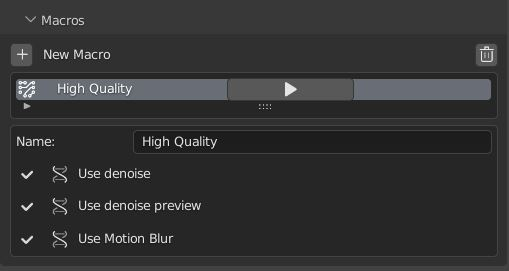
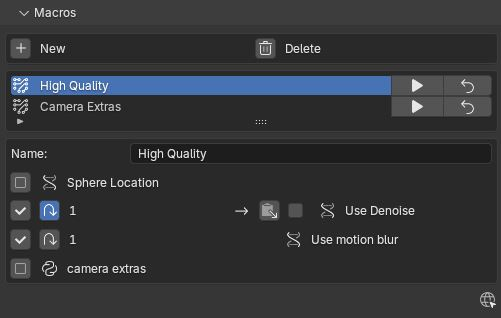
2.0.5 updates prt1

diff --git a/source/index.rst b/source/index.rst
@@ -4,7 +4,7 @@ Shot Manager
 
 https://twitter.com/OTrealms
 
-:Version: 2.0.0
+:Version: 2.0.5
 
 
 Getting Started
@@ -12,15 +12,14 @@ Getting Started
 
 Shot Manager is an add-on for Blender. Created as a tool by myself Pablo Tochez A. [contact@pablotochez.com] in order to assist in the organisation of complex files containing multiple shots, view layers and cameras. I am an artist with some coding knowledge for making time saving tools and digital artworks.
 
-Shot Manager should be installed like any .zip add-on [Blender 2.8 Install Add-ons 00:38-https://youtu.be/14G_YIVdBd0?t=38]. 
+Shot Manager should be installed like any .zip add-on [Blender 2-3 Install Add-ons 00:38-https://youtu.be/14G_YIVdBd0?t=38, blender 4.2 user Add-ons https://www.youtube.com/watch?v=_dJxMgMKYgU&ab_channel=GlenMadden]. 
 
  Make sure to remove any previously installed versions first and restart Blender.
 
 You will not lose shot data uninstalling the add-on/
 This documentation encompasses both the Lite and pro versions available on Blender Market.
 
-
- Version 2.0 and above do not support versions of Blender less than 4.0.
+ SM version 2.0 and above do not support versions of Blender less than 4.0.
 
 Updating from v0.7 or older Shot Manager project
 ------------------------------------------------
@@ -306,7 +305,7 @@ Shot Rules
 
 .. image:: ShotRules.JPG 
 
-Here rules can be assigned, toggled and overridden (RNA, Python Variables) per shot. Rules should first be created in the Rule Book, see :ref:`UI: Rule Book`.
+Here rules can be assigned, toggled and overridden per shot. Rules should first be created in the Rule Book, see :ref:`UI: Rule Book`.
 
 **List Drop Down**
 * **Search**, Filter Rules by text input.
@@ -375,7 +374,7 @@ UI: Rule Book
 .. image:: RuleBook.JPG 
 
 Shot rules are a powerful way to override data blocks and properties.
-Rules are defined in the Rule Book panel. Once created in the Rule Book, they can be assigned to shots. RNA Rules can be used as Macros. There are many types of rules which target various data types.
+Rules are defined in the Rule Book panel. Once created in the Rule Book, they can be assigned to shots. RNA and Python Rules can be used as Macros. There are many types of rules which target various data types.
 
 Rules and Variables are shared (global) across Scenes.
 
@@ -387,7 +386,8 @@ Swap Rules - Materials, Mesh Data, Cameras, Lights
 ----------------------------------------------
 .. image:: SwapRules.JPG
 
-Swap Rules follow the principle of; replace data A with data B, if a collection filter is defined, the affect will be restricted to that collection. Rules defined in the Rule Book can then be re-used by assigning them to the shots individually. If the following shot doesn't have a rule, the data block will be reset to its original/default state. Caution: large scenes with many objects may take longer to switch between shots.
+Swap Rules follow the principle of; replace data A with data B, if a collection filter is defined, the affect will be restricted to that collection. Rules defined in the Rule Book can then be re-used by assigning them to the shots individually. 
+If the following shot doesn't have a rule, the data block will be reset to its original/default state. Caution: large scenes with many objects may take longer to switch between shots.
  
  Material overrides will target the first material slot only.
 
@@ -442,7 +442,7 @@ Python Rules
 
 Python Rules contain python code to be executed every time an assigned Shot is activated. There is no need to import or define the following names:
 
-**'bpy', 'context','scene','data', 'Vector','rule'(assigned Rule) and 'shot'** are already provided in the name space. Please beware that very long code may slow down shot changes. Deep code might make Blender unstable. Python Rules are called after the majority of updates when activating a Shot. Python rules can be made revertible using variables as defaults values.
+**'bpy', 'context','scene','data', 'Vector','rule'(self reference assigned Rule) and 'shot'** are already provided in the name space. Please beware that very long code may slow down shot changes. Deep code might make Blender unstable. Python Rules are called after the majority of updates when activating a Shot. Python rules can be made revertible using variables as defaults values.
 
 * **Expression**, A single line of code.
 * **Text File**, Read python code from a text block.
@@ -479,7 +479,9 @@ Macros
 
 .. image:: Macros.JPG
 
-Macros in Shot Manager are a list of RNA Rules to be executed manually on click. These are useful when working with multiple settings without needing to assign RNA Rules to shots. For example, enabling/disabling camera overlays or a rig bind pose position. Macros can be reverted by using default values.
+Macros in Shot Manager are a list of RNA or Python Rules to be executed manually on click. These are useful when working with multiple settings without needing to assign RNA Rules to shots. 
+For example, enabling/disabling camera overlays or a rig bind pose position. Macros can be made revertable by setting RNA default values. 
+For python rules, macro's and use variable overrides on execution and variable default values on revert.
 
 All RNA Rules in all Rule Books within the Blender file will appear under the Macro. Enabled Rules will activate the rules 'Override' value, disabled Rules will use the Rule's 'Default' value.
 
@@ -586,7 +588,8 @@ Shot Sequence Editor
 
 The Shot Sequence Editor acts as an overlay only unless the Shot Edit tool is active.
 
-* **Left Mouse Click** on a shot strip to offset its timing or end handles to trim. Hold **SHIFT** to enable snapping to the nearest shot. 
+* **Left Mouse Click** on a shot strip to offset its timing or end handles to trim. Hold **CTRL** to enable snapping to the nearest shot. 
+Hold **SHIFT** and click to select additional shots. 
 
 * **Right Mouse Click** on a strip to bring up a context menu.
 
@@ -596,7 +599,10 @@ The Shot Sequence Editor acts as an overlay only unless the Shot Edit tool is ac
 
 * **Press K**, knife tool. Slice shots at mouse click into two. Hold click a drag to place slice.
 
+* **Press R**, Ripple tool. Slide or scale a strip forwards to ripple all shot following he modified shot's end frame. Slide or scale backwards to ripple all shots prior to the modified shot's start frame.
+
 * **Press J**, Join tool. Click and drag to merge a shot with it neighbour. A popup box with options will appear.
+
 * * **Delete Target**, Delete the target shot. Disable to keep the shot.
 
 * * **Assimilate Layers**, Add the target shot's View Layer states to the resulting combined shot.
@@ -1069,6 +1075,15 @@ The Output Generator Node is the essential input of a chain of generator nodes. 
 .. image:: JoiningOutputs.JPG
 
 It is possible to combine generated nodes if the Output Generator nodes have matching names. Sub-paths and EXR settings will only follow the first to be evaluated. Combine Outputs should be checked on both nodes and should have matching Multi-Layer EXR checkmark.
+
+**Output Pass Name Mapping**
+
+.. image:: PassNameRemap.JPG
+
+In the right panel, generated output pass names can be remapped for the given Output Generator. These will be respected in the filename and subfolder formating.
+
+* **Socket Name**, The render layer socket to override
+* **=**, Define a new name
 
 Group Insert Node
 -----------------
